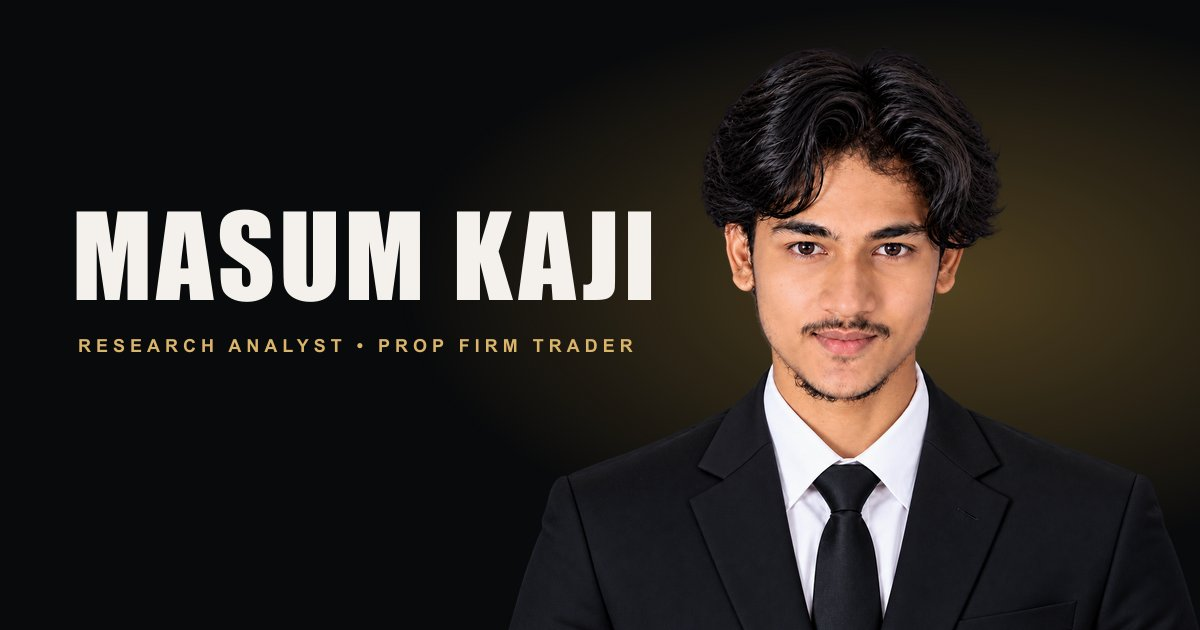
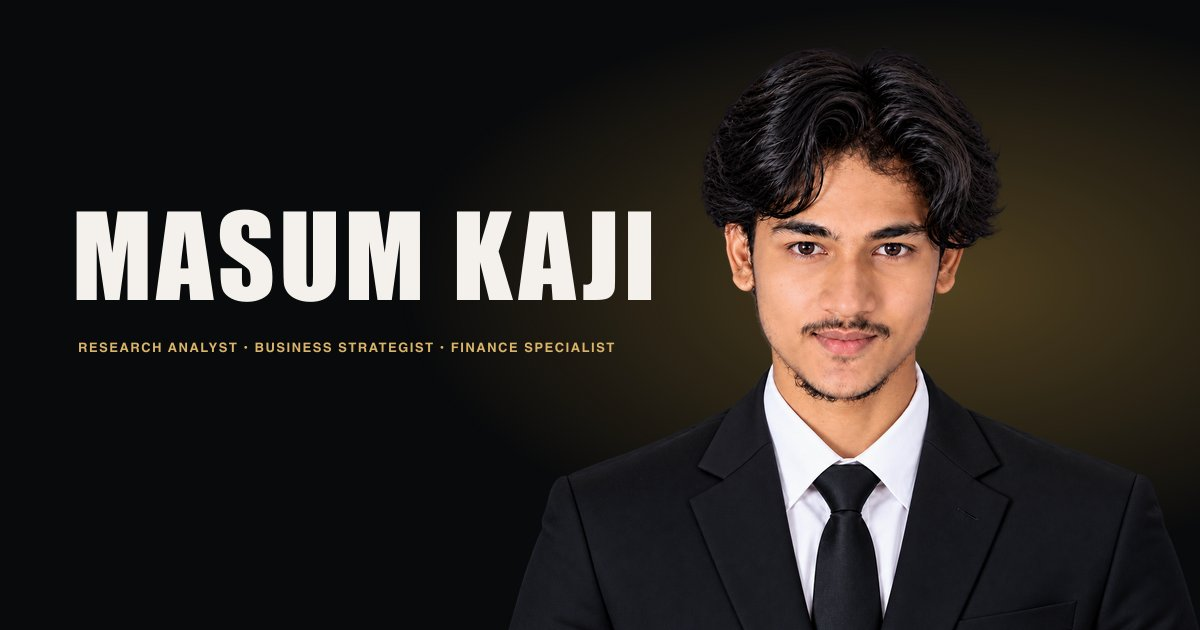
Expand intro reel and refresh social preview

Changed region(s): [[0.0617, 0.5127, 0.5242, 0.573]]

diff --git a/src/data/portfolio.ts b/src/data/portfolio.ts
@@ -303,7 +303,26 @@ export const introSlides: IntroSlide[] = [
   {
     kicker: 'Introduction',
     title: 'Masum Kaji',
-    lines: ['Specializing in short- and long-term capital allocation across global assets.', 'Focused on commodity markets. Prop firm trader.'],
+    lines: ['Research Analyst • Business Strategist • Finance Specialist', 'Exploring capital allocation, business strategy, and financial education.'],
+    chips: ['Research', 'Business', 'Finance'],
+  },
+  {
+    kicker: 'The Builder',
+    title: 'Ideas Into Ventures',
+    lines: ['Grew Monee Forum to 225K+ subscribers and later sold the channel.', 'Built and sold Siftmirth, a personalized gift company.'],
+    chips: ['Content', 'Entrepreneurship', 'Audience growth'],
+  },
+  {
+    kicker: 'The Analyst',
+    title: 'Learning The Markets',
+    lines: ['Studying global assets and developing a focus on commodities.', 'Documenting research and prop-firm trading milestones through Win With Masum.'],
+    chips: ['Global assets', 'Commodities', 'Market research'],
+  },
+  {
+    kicker: 'The Mission',
+    title: 'Knowledge Creates Options',
+    lines: ['I want to help young people learn about money, business, markets, and personal finance.', 'My long-term goal is to build a company that creates meaningful work and practical support.'],
+    chips: ['Education', 'Opportunity', 'Long-term vision'],
   },
 ];
 
@@ -321,7 +340,7 @@ export const viewerProfiles: { id: ProfileId; name: string; blurb: string; color
 const neutral: Palette = { from: '#111316', via: '#27251f', to: '#090a0c', accent: '#d9b46a' };
 export const sectionMeta: Record<SectionId, { nav: string; card: string; meta: string; palette: Palette }> = {
   now: { nav: 'Now', card: 'Currently Building', meta: 'Live priorities and research focus', palette: neutral },
-  about: { nav: 'About', card: 'About Masum', meta: 'Research Analyst • Prop Firm Trader', palette: neutral },
+  about: { nav: 'About', card: 'About Masum', meta: 'Research Analyst • Business Strategist • Finance Specialist', palette: neutral },
   journey: { nav: 'Journey', card: 'My Journey', meta: 'Background and milestones', palette: neutral },
   ventures: { nav: 'Ventures', card: 'Venture Case Studies', meta: 'Businesses built and sold', palette: neutral },
   originals: { nav: 'Research', card: 'Research & Ideas', meta: 'Market analysis and research notes', palette: neutral },

diff --git a/index.html b/index.html
@@ -4,13 +4,13 @@
     <meta charset="UTF-8" />
     <meta name="viewport" content="width=device-width, initial-scale=1.0, viewport-fit=cover" />
     <title>Masum Kaji — Research Analyst, Business Strategist &amp; Finance Specialist</title>
-    <meta name="description" content="Masum Kaji — Research analyst focused on short- and long-term capital allocation across global assets and commodity markets. Prop firm trader." />
+    <meta name="description" content="Masum Kaji — Research Analyst, Business Strategist, and Finance Specialist, exploring global assets, business strategy, and financial education." />
     <meta name="theme-color" content="#090a0c" />
     <meta property="og:title" content="Masum Kaji — Research Analyst, Business Strategist &amp; Finance Specialist" />
-    <meta property="og:description" content="Research analyst specializing in capital allocation across global assets and commodity markets." />
-    <meta property="og:image" content="https://masumkaji.tech/assets/og-image.jpg" />
+    <meta property="og:description" content="Research, business strategy, and financial education—with a focus on helping young people understand money, markets, and business." />
+    <meta property="og:image" content="https://masumkaji.tech/assets/og-image.jpg?v=20261101" />
     <meta name="twitter:card" content="summary_large_image" />
-    <meta name="twitter:image" content="https://masumkaji.tech/assets/og-image.jpg" />
+    <meta name="twitter:image" content="https://masumkaji.tech/assets/og-image.jpg?v=20261101" />
     <link rel="icon" type="image/svg+xml" href="%BASE_URL%favicon.svg" />
     <link rel="preconnect" href="https://fonts.googleapis.com" />
     <link rel="preconnect" href="https://fonts.gstatic.com" crossorigin />
